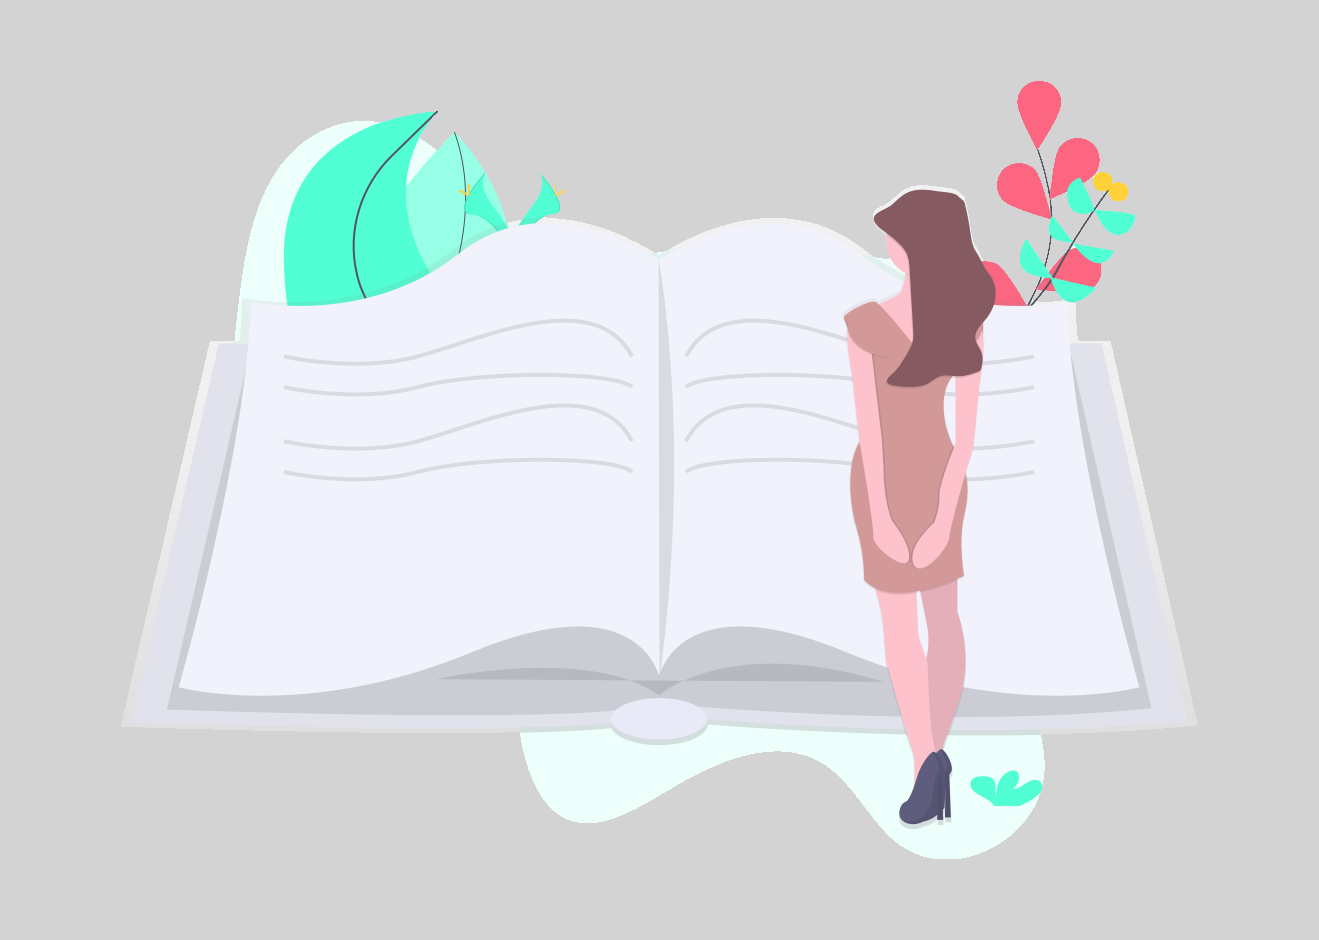
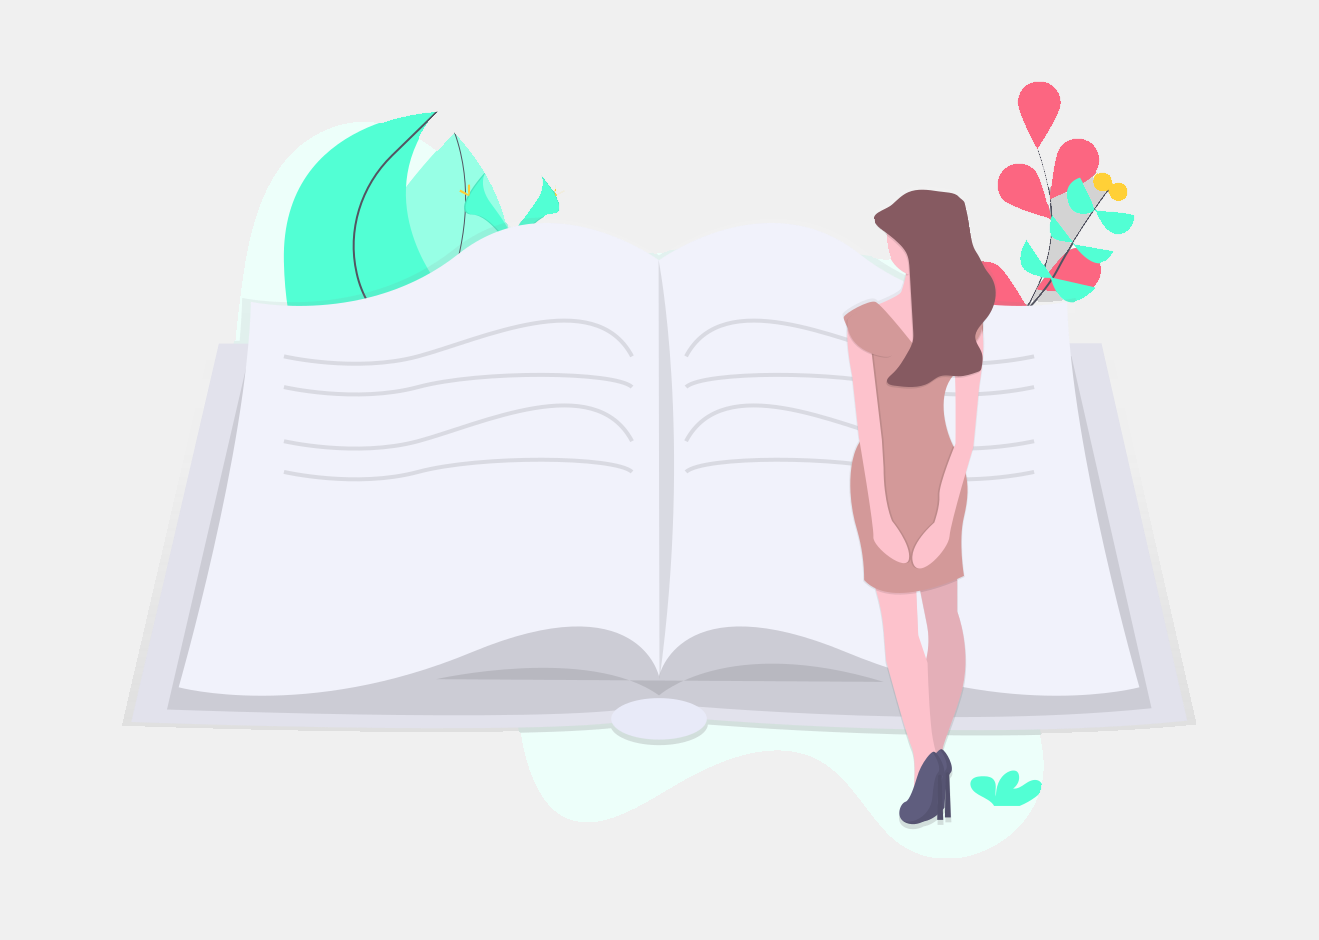
Adicionando página not-found e footer como partials

diff --git a/public/stylesheets/dist/main.css b/public/stylesheets/dist/main.css
@@ -7151,11 +7151,10 @@ html {
   scroll-behavior: smooth;
 }
 
-
 /* Header */
 
 .jumbotron {
-  background-color: rgb(211, 211, 211);
+  background-color: #F0F0F0;
   width: 100%;
   max-width: 100%;
   height: 682px;
@@ -7182,7 +7181,6 @@ nav ul li a:hover {
   color: black;
   border-radius: 15px;
 }
-
 
 /* Menu drop-down */
 
@@ -7313,7 +7311,7 @@ article {
 /* Segunda Section */
 
 .form {
-  background-color: rgba(211, 211, 211, 0.4);
+  background-color: #F0F0F0;
   border-radius: 15px;
   font-family: 'Poppins', sans-serif;
 }
@@ -7436,3 +7434,26 @@ footer p {
 }
 
 /* Fim Index */
+
+/* Início not-found */
+
+/* Imagem Principal 404 */
+
+#imagem404{
+  width:35rem;
+  height:20rem;
+}
+
+/* Todo o corpo da página */
+
+.corpo404{
+  margin-top:5%;
+}
+
+/* Texto de Aviso */
+
+.texto404{
+  font-family: 'Poppins', sans-serif;
+}
+
+/* Fim not-found */

diff --git a/app.js b/app.js
@@ -25,8 +25,8 @@ app.use('/', indexRouter);
 app.use('/users', usersRouter);
 
 // catch 404 and forward to error handler
-app.use(function(req, res, next) {
-  next(createError(404));
+app.use((req, res) => {
+  return res.status(404).render('not-found');
 });
 
 // error handler

diff --git a/public/stylesheets/src/not-found.scss b/public/stylesheets/src/not-found.scss
@@ -1,0 +1,18 @@
+/* Imagem Principal 404 */
+
+#imagem404{
+    width:35rem;
+    height:20rem;
+}
+  
+/* Todo o corpo da página */
+  
+.corpo404{
+    margin-top:5%;
+}
+  
+/* Texto de Aviso */
+  
+.texto404{
+    font-family: 'Poppins', sans-serif;
+}

diff --git a/public/stylesheets/src/index.scss b/public/stylesheets/src/index.scss
@@ -12,7 +12,7 @@ html {
 /* Header */
 
 .jumbotron {
-    background-color: rgb(211, 211, 211);
+    background-color: black;
     width: 100%;
     max-width: 100%;
     height: 682px;

diff --git a/public/stylesheets/src/main.scss b/public/stylesheets/src/main.scss
@@ -2,3 +2,4 @@
 
 @import "../../../node_modules/bootstrap/scss/bootstrap.scss";
 @import "./index.scss";
+@import "./not-found.scss";
